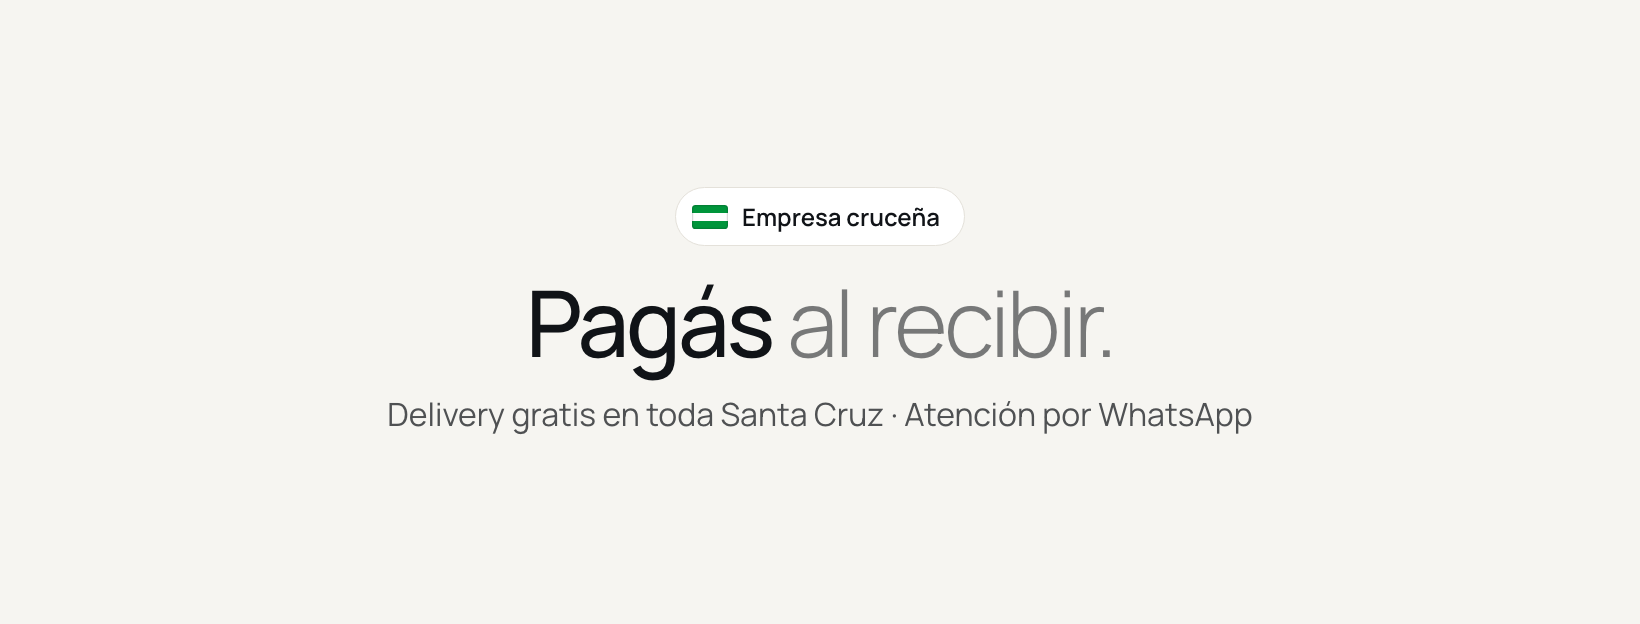
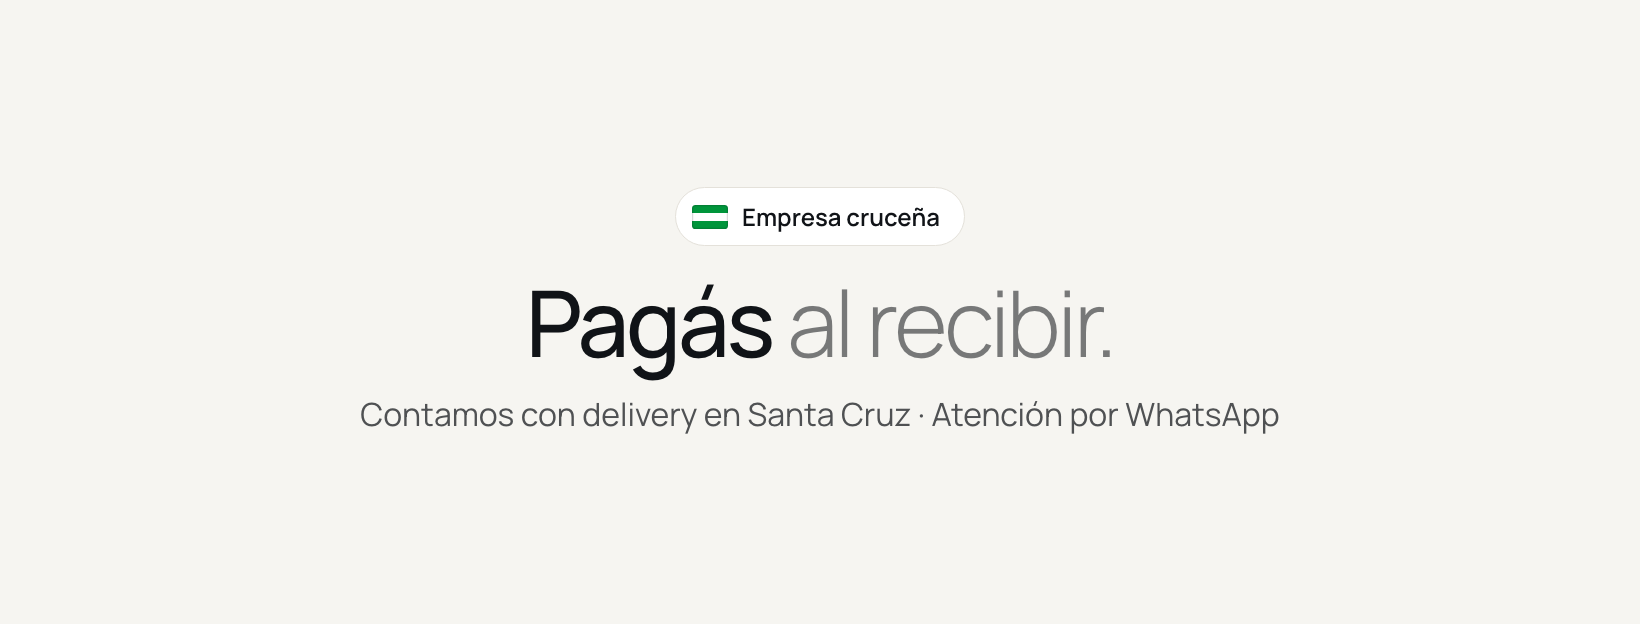
Reemplazar 'delivery gratis' por 'contamos con delivery'
En toda la web (portada, garantías, compra segura, preguntas, detalle,
pedido y mensaje de WhatsApp), la vista previa al compartir, los posts
del kit de lanzamiento, los textos de redes y las guías del agente de Meta.

Changed region(s): [[0.2177, 0.6394, 0.7774, 0.7003]]

diff --git a/index.html b/index.html
@@ -4,7 +4,7 @@
 <meta charset="utf-8">
 <meta name="viewport" content="width=device-width, initial-scale=1">
 <title>Nexora Labs — Péptidos de alta pureza</title>
-<meta name="description" content="Nexora Labs, Santa Cruz. Péptidos de alta pureza con delivery gratis en toda la ciudad. Pagás recién cuando recibís tu pedido.">
+<meta name="description" content="Nexora Labs, Santa Cruz. Péptidos de alta pureza. Contamos con delivery y pagás recién cuando recibís tu pedido.">
 <meta name="theme-color" content="#F6F5F1">
 <link rel="canonical" href="https://nexoratienda.netlify.app/">
 <!-- Vista previa al compartir (WhatsApp, Instagram, Facebook, X) -->
@@ -13,7 +13,7 @@
 <meta property="og:locale" content="es_BO">
 <meta property="og:url" content="https://nexoratienda.netlify.app/">
 <meta property="og:title" content="Nexora Labs — Péptidos de alta pureza">
-<meta property="og:description" content="Delivery gratis en Santa Cruz. Pagás al recibir: efectivo o QR. Pedí por WhatsApp.">
+<meta property="og:description" content="Contamos con delivery en Santa Cruz. Pagás al recibir: efectivo o QR. Pedí por WhatsApp.">
 <meta property="og:image" content="https://nexoratienda.netlify.app/og-image.jpg">
 <meta property="og:image:width" content="1200">
 <meta property="og:image:height" content="630">
@@ -68,7 +68,7 @@
       <ul class="assure" aria-label="Garantías de compra">
         <li><svg class="flag" viewBox="0 0 30 20" aria-hidden="true"><rect width="30" height="20" rx="3" fill="#fff"/><path d="M3 0h24a3 3 0 0 1 3 3v3.67H0V3a3 3 0 0 1 3-3Z" fill="#00953B"/><path d="M0 13.33h30V17a3 3 0 0 1-3 3H3a3 3 0 0 1-3-3Z" fill="#00953B"/><rect x=".5" y=".5" width="29" height="19" rx="2.5" fill="none" stroke="rgba(16,19,23,.14)"/></svg>Somos de Santa Cruz</li>
         <li><svg viewBox="0 0 24 24" fill="none" stroke="currentColor" stroke-width="1.6" stroke-linecap="round" stroke-linejoin="round"><rect x="3" y="7" width="18" height="12" rx="2"/><path d="M3 11h18M7 15h3"/></svg>Pagás al recibir</li>
-        <li><svg viewBox="0 0 24 24" fill="none" stroke="currentColor" stroke-width="1.6" stroke-linecap="round" stroke-linejoin="round"><path d="M3 6h11v10H3zM14 10h4l3 3v3h-7"/><circle cx="7" cy="17.5" r="1.8"/><circle cx="17" cy="17.5" r="1.8"/></svg>Delivery gratis en Santa Cruz</li>
+        <li><svg viewBox="0 0 24 24" fill="none" stroke="currentColor" stroke-width="1.6" stroke-linecap="round" stroke-linejoin="round"><path d="M3 6h11v10H3zM14 10h4l3 3v3h-7"/><circle cx="7" cy="17.5" r="1.8"/><circle cx="17" cy="17.5" r="1.8"/></svg>Contamos con delivery</li>
         <li><svg viewBox="0 0 24 24" fill="none" stroke="currentColor" stroke-width="1.6" stroke-linecap="round" stroke-linejoin="round"><path d="M21 12a8 8 0 0 1-11.6 7.1L4 20l1-4.6A8 8 0 1 1 21 12Z"/></svg>Atención directa por WhatsApp</li>
       </ul>
     </div>
@@ -78,8 +78,8 @@
   <div class="trust">
     <div class="wrap">
       <div><b>Pagás al recibir</b><span>Efectivo o QR, sin adelantos</span></div>
-      <div><b>Delivery gratis</b><span>En toda Santa Cruz</span></div>
-      <div><b>Precio final</b><span>Sin costos ocultos</span></div>
+      <div><b>Contamos con delivery</b><span>En Santa Cruz</span></div>
+      <div><b>Total claro</b><span>Confirmado antes de entregar</span></div>
       <div><b>99% pureza</b><span>Calidad premium</span></div>
     </div>
   </div>
@@ -103,9 +103,9 @@
       </div>
       <div class="secure-grid">
         <div class="sc rv"><svg viewBox="0 0 24 24" fill="none" stroke="currentColor" stroke-width="1.6" stroke-linecap="round" stroke-linejoin="round"><rect x="3" y="7" width="18" height="12" rx="2"/><path d="M3 11h18M7 15h3"/></svg><h3>Pagás al recibir</h3><p>Pagás en efectivo o con QR en el momento de la entrega. No necesitás pagar nada por adelantado.</p></div>
-        <div class="sc rv"><svg viewBox="0 0 24 24" fill="none" stroke="currentColor" stroke-width="1.6" stroke-linecap="round" stroke-linejoin="round"><path d="M3 6h11v10H3zM14 10h4l3 3v3h-7"/><circle cx="7" cy="17.5" r="1.8"/><circle cx="17" cy="17.5" r="1.8"/></svg><h3>Delivery gratis</h3><p>Te lo llevamos sin costo a cualquier zona de Santa Cruz. Coordinamos día y horario por WhatsApp.</p></div>
+        <div class="sc rv"><svg viewBox="0 0 24 24" fill="none" stroke="currentColor" stroke-width="1.6" stroke-linecap="round" stroke-linejoin="round"><path d="M3 6h11v10H3zM14 10h4l3 3v3h-7"/><circle cx="7" cy="17.5" r="1.8"/><circle cx="17" cy="17.5" r="1.8"/></svg><h3>Contamos con delivery</h3><p>Te lo llevamos a tu zona en Santa Cruz. Coordinamos día y horario por WhatsApp.</p></div>
         <div class="sc rv"><svg viewBox="0 0 24 24" fill="none" stroke="currentColor" stroke-width="1.6" stroke-linecap="round" stroke-linejoin="round"><path d="M2 12s3.5-7 10-7 10 7 10 7-3.5 7-10 7S2 12 2 12Z"/><circle cx="12" cy="12" r="3"/></svg><h3>Revisás antes de pagar</h3><p>Recibís tu pedido, lo revisás con tranquilidad y recién después pagás.</p></div>
-        <div class="sc rv"><svg viewBox="0 0 24 24" fill="none" stroke="currentColor" stroke-width="1.6" stroke-linecap="round" stroke-linejoin="round"><path d="M20 12 12 20l-9-9V4h7Z"/><circle cx="7.5" cy="7.5" r="1.3"/></svg><h3>Precio final, sin sorpresas</h3><p>El precio que ves es el que pagás. El delivery no tiene costo y no hay cargos extra.</p></div>
+        <div class="sc rv"><svg viewBox="0 0 24 24" fill="none" stroke="currentColor" stroke-width="1.6" stroke-linecap="round" stroke-linejoin="round"><path d="M20 12 12 20l-9-9V4h7Z"/><circle cx="7.5" cy="7.5" r="1.3"/></svg><h3>Total claro, sin sorpresas</h3><p>Antes de la entrega te confirmamos por WhatsApp el total de tu pedido.</p></div>
         <div class="sc rv"><svg viewBox="0 0 24 24" fill="none" stroke="currentColor" stroke-width="1.6" stroke-linecap="round" stroke-linejoin="round"><path d="M12 21s7-6.2 7-12a7 7 0 0 0-14 0c0 5.8 7 12 7 12Z"/><circle cx="12" cy="9" r="2.5"/></svg><h3>Retiro en persona</h3><p>Si preferís, coordinamos un punto de retiro y pagás ahí en efectivo o QR.</p></div>
         <div class="sc rv"><svg viewBox="0 0 24 24" fill="none" stroke="currentColor" stroke-width="1.6" stroke-linecap="round" stroke-linejoin="round"><path d="M21 12a8 8 0 0 1-11.6 7.1L4 20l1-4.6A8 8 0 1 1 21 12Z"/></svg><h3>Atención directa</h3><p>Todas tus consultas se responden por WhatsApp, antes y después de tu compra.</p></div>
       </div>
@@ -146,7 +146,7 @@
       <div class="steps">
         <div class="step rv"><div class="n">01</div><h3>Armá tu pedido</h3><p>Sumá uno o varios productos con el botón +.</p></div>
         <div class="step rv"><div class="n">02</div><h3>Envialo por WhatsApp</h3><p>Tu pedido llega armado. Te confirmamos stock y coordinamos día y horario de entrega.</p></div>
-        <div class="step rv"><div class="n">03</div><h3>Recibí y pagá</h3><p>Te lo llevamos gratis en Santa Cruz. Revisás tu pedido y pagás ahí: efectivo o QR.</p></div>
+        <div class="step rv"><div class="n">03</div><h3>Recibí y pagá</h3><p>Te lo llevamos con nuestro delivery. Revisás tu pedido y pagás ahí: efectivo o QR.</p></div>
       </div>
     </div>
   </section>
@@ -156,12 +156,12 @@
       <div class="rv">
         <div class="eyebrow">Atención por WhatsApp</div>
         <h2>Preguntas frecuentes</h2>
-        <p class="lead">Delivery gratis en Santa Cruz y pago al recibir. Toda la atención es por WhatsApp.</p>
+        <p class="lead">Contamos con delivery y pagás al recibir. Toda la atención es por WhatsApp.</p>
         <a class="btn btn-dark wa" href="#" target="_blank" rel="noopener" data-msg="Hola Nexora, tengo una consulta.">Escribinos</a>
       </div>
       <div class="faq rv">
         <details><summary>¿Tengo que pagar por adelantado?</summary><p><b>No.</b> Pagás cuando recibís tu pedido, en efectivo o con QR. Primero lo revisás y después pagás.</p></details>
-        <details><summary>¿Cuánto cuesta el delivery?</summary><p>Nada. El delivery es <b>gratis en toda Santa Cruz</b>. Si preferís, también podés retirar en persona en un punto que coordinamos.</p></details>
+        <details><summary>¿Hacen delivery?</summary><p>Sí, <b>contamos con delivery</b> en Santa Cruz. Coordinamos día y horario por WhatsApp. Si preferís, también podés retirar en persona en un punto que coordinamos.</p></details>
         <details><summary>¿Cómo hago un pedido?</summary><p>Agregá los productos con el botón <b>+</b>, tocá <b>Ver pedido</b>, elegí entrega y forma de pago, y envialo por WhatsApp. Te confirmamos stock y coordinamos día y horario.</p></details>
         <details><summary>¿Cómo sé que es seguro comprarles?</summary><p>Porque no arriesgás tu dinero: no pedimos adelantos. Recibís el producto, lo revisás y recién ahí pagás. Además, podés escribirnos antes para resolver cualquier duda.</p></details>
         <details><summary>¿Cómo se conservan los productos?</summary><p>Son péptidos liofilizados. Con tu pedido te pasamos las indicaciones de conservación; en general se guardan refrigerados (2–8 °C), sin congelar y protegidos de la luz.</p></details>
@@ -176,7 +176,7 @@
         <div>
           <div class="eyebrow">Tu mejor versión es ahora</div>
           <h2>Disciplina hoy. Un mejor mañana.</h2>
-          <p>Escribinos y te asesoramos. Delivery gratis en Santa Cruz y pagás recién al recibir.</p>
+          <p>Escribinos y te asesoramos. Contamos con delivery y pagás recién al recibir.</p>
           <a class="btn wa" href="#" target="_blank" rel="noopener" data-msg="Hola Nexora, quiero asesoramiento para elegir un producto.">
             <svg viewBox="0 0 24 24" fill="currentColor"><path d="M12 2a10 10 0 0 0-8.6 15.1L2 22l5-1.3A10 10 0 1 0 12 2Zm5.3 14.1c-.2.6-1.3 1.2-1.8 1.2-.5.1-1 .2-3.3-.7-2.8-1.1-4.6-4-4.7-4.2-.1-.2-1.1-1.5-1.1-2.9s.7-2 1-2.3c.2-.3.5-.3.7-.3h.5c.2 0 .4 0 .6.5l.8 2c.1.2.1.4 0 .5l-.4.6-.4.4c-.1.2-.3.3-.1.6.2.3.8 1.3 1.7 2.1 1.2 1 2.1 1.3 2.4 1.5.3.1.5.1.6-.1l.9-1c.2-.3.4-.2.6-.1l1.9.9c.3.1.5.2.5.3.1.2.1.8-.2 1.4Z"/></svg>
             Hablar por WhatsApp</a>
@@ -196,7 +196,7 @@
     <div class="top">
       <div>
         <div class="brand"><svg class="mark" viewBox="0 0 64 64" aria-hidden="true"><path d="M32 2 58 17v30L32 62 6 47V17Z"/><g class="n"><rect x="20" y="20" width="5" height="24"/><rect x="39" y="20" width="5" height="24"/><path d="M25 20h5.2l8.8 17.5V44h-.2L25 26.5Z"/></g></svg>NEXORA LABS</div>
-        <p style="margin-top:14px;max-width:36ch">Péptidos de alta pureza en Santa Cruz de la Sierra, Bolivia. Delivery gratis y pago al recibir.</p>
+        <p style="margin-top:14px;max-width:36ch">Péptidos de alta pureza en Santa Cruz de la Sierra, Bolivia. Contamos con delivery y pago al recibir.</p>
       </div>
       <nav aria-label="Pie"><a href="#productos">Productos</a><a href="#compra-segura">Compra segura</a><a href="#precios">Precios</a><a href="#" class="wa" target="_blank" rel="noopener" data-msg="Hola Nexora, quiero hacer una consulta.">WhatsApp</a></nav>
     </div>
@@ -219,7 +219,7 @@
       <p class="tagline" id="mTag"></p>
       <ul id="mList"></ul>
       <div class="m-foot">
-        <div><div class="eyebrow" style="font-size:11px">Precio final</div><div class="price" id="mPrice"></div><div class="m-assure">Delivery gratis · Pagás al recibir</div></div>
+        <div><div class="eyebrow" style="font-size:11px">Precio final</div><div class="price" id="mPrice"></div><div class="m-assure">Contamos con delivery · Pagás al recibir</div></div>
         <div class="acts">
           <div class="add big" id="mAdd"></div>
           <a class="alt" id="mAsk" target="_blank" rel="noopener">o consultar solo este producto</a>

diff --git a/js/productos.js b/js/productos.js
@@ -18,11 +18,11 @@
 const WHATSAPP = "59157022195";
 
 // Datos del negocio: se usan en el pedido y el mensaje de WhatsApp.
-// Si cambia algo (por ejemplo, dejás de hacer delivery gratis), cambialo acá
+// Si cambia algo (por ejemplo, las formas de pago), cambialo acá
 // y revisá también los textos de index.html (secciones "confianza" y "ayuda").
 const NEGOCIO = {
   ciudad: "Santa Cruz",
-  entrega: ["Delivery gratis", "Retiro en persona"],
+  entrega: ["Delivery", "Retiro en persona"],
   pago: ["Efectivo al recibir", "QR al recibir"],
 };
 

diff --git a/marketing/creativos/2026-09-28_lanzamiento/generar.py b/marketing/creativos/2026-09-28_lanzamiento/generar.py
@@ -95,8 +95,8 @@ POSTS = {
     '<div class="eyebrow" style="margin-top:50px">Paso 1</div><h1 style="font-size:104px;margin-top:22px">Escribinos por WhatsApp.</h1>'
     '<p class="s">O armá tu pedido en la web: el mensaje llega listo.</p></div>' + foot()),
  "post-02c_paso-2": ("light", brand() + '<div class="num">03 / 05</div><div class="body">' + ic("truck", 96, "#1F3A6E") +
-    '<div class="eyebrow" style="margin-top:50px">Paso 2</div><h1 style="font-size:104px;margin-top:22px">Te lo llevamos gratis.</h1>'
-    '<p class="s">A cualquier zona de Santa Cruz. Coordinamos día y horario.</p></div>' + foot()),
+    '<div class="eyebrow" style="margin-top:50px">Paso 2</div><h1 style="font-size:104px;margin-top:22px">Te lo llevamos.</h1>'
+    '<p class="s">Contamos con delivery en Santa Cruz. Coordinamos día y horario.</p></div>' + foot()),
  "post-02d_paso-3": ("light", brand() + '<div class="num">04 / 05</div><div class="body">' + ic("eye", 96, "#1F3A6E") +
     '<div class="eyebrow" style="margin-top:50px">Paso 3</div><h1 style="font-size:104px;margin-top:22px">Lo revisás.</h1>'
     '<p class="s">Con tranquilidad, en tus manos.</p></div>' + foot()),
@@ -106,10 +106,10 @@ POSTS = {
  # 03 — pago al recibir
  "post-03_pagas-al-recibir": ("dark", brand() + '<div class="body"><h1 style="font-size:150px">Pagás <em>al recibir.</em></h1>'
     '<p class="s">Efectivo o QR, en el momento de la entrega. No te pedimos adelantos.</p></div>' + foot("Nexora Labs", "Santa Cruz")),
- # 04 — delivery gratis
- "post-04_delivery-gratis": ("light", brand() +
+ # 04 — delivery
+ "post-04_delivery": ("light", brand() +
     '<div class="body">' + ic("truck", 110, "#1F3A6E") +
-    '<h1 style="font-size:128px;margin-top:46px">Delivery gratis <em>en toda Santa Cruz.</em></h1></div>' + foot("Sin costo", "Sin mínimo")),
+    '<h1 style="font-size:128px;margin-top:46px">Contamos <em>con delivery.</em></h1><p class="s">Te lo llevamos a tu zona en Santa Cruz.</p></div>' + foot()),
  # 05 — estilo de vida
  "post-05_disciplina": ("dark", brand() + '<div class="body"><h1 style="font-size:140px">Disciplina hoy.</h1>'
     '<h1 style="font-size:140px;margin-top:6px"><em>Un mejor mañana.</em></h1></div>' + foot("Nexora Labs", "Constancia")),
@@ -117,7 +117,7 @@ POSTS = {
  "post-06_revisas-antes": ("light", brand() + '<div class="body"><div class="eyebrow">Nuestro compromiso</div>'
     '<div class="list" style="margin-top:44px">'
     f'<div>{ic("hand",56,"#1F3A6E")}Pagás al recibir</div>'
-    f'<div>{ic("truck",56,"#1F3A6E")}Delivery gratis</div>'
+    f'<div>{ic("truck",56,"#1F3A6E")}Contamos con delivery</div>'
     f'<div>{ic("eye",56,"#1F3A6E")}Revisás antes de pagar</div>'
     f'<div>{ic("chat",56,"#1F3A6E")}Atención directa</div></div></div>' + foot()),
  # 07 — educativo: conservación (3 láminas)
@@ -157,5 +157,5 @@ if __name__ == "__main__":
            '<div style="position:absolute;inset:0;display:flex;flex-direction:column;align-items:center;justify-content:center;text-align:center">'
            f'<div style="display:inline-flex;align-items:center;gap:14px;padding:12px 24px 12px 16px;border:1px solid #E4E1DA;border-radius:999px;background:#fff;font-size:24px;font-weight:600;margin-bottom:30px">{flag(36)}Empresa cruceña</div>'
            '<h1 style="font-size:92px">Pagás <em>al recibir.</em></h1>'
-           '<p class="s" style="font-size:32px;margin-top:22px;max-width:none">Delivery gratis en toda Santa Cruz · Atención por WhatsApp</p></div>')
+           '<p class="s" style="font-size:32px;margin-top:22px;max-width:none">Contamos con delivery en Santa Cruz · Atención por WhatsApp</p></div>')
     print("listo")

diff --git a/marketing/creativos/2026-09-28_lanzamiento/textos.md b/marketing/creativos/2026-09-28_lanzamiento/textos.md
@@ -9,19 +9,19 @@ Todas las piezas son de marca, confianza y estilo de vida (🟢): no muestran fr
 ## Biografías
 **Instagram (≤150 caracteres)**
 ```
-Pagás al recibir · Delivery gratis en Santa Cruz 🇧🇴
+Pagás al recibir · Contamos con delivery 🇧🇴
 Atención directa por WhatsApp
 👇 Escribinos
 ```
 
 **Facebook, descripción de la página (≤255)**
 ```
-Nexora Labs · Santa Cruz de la Sierra. Pagás al recibir (efectivo o QR), delivery gratis en toda la ciudad y atención directa por WhatsApp.
+Nexora Labs · Santa Cruz de la Sierra. Pagás al recibir (efectivo o QR), contamos con delivery y atención directa por WhatsApp.
 ```
 
 **TikTok (≤80)**
 ```
-Pagás al recibir · Delivery gratis SCZ 🇧🇴 · Escribinos por WhatsApp
+Pagás al recibir · Delivery en SCZ 🇧🇴 · Escribinos por WhatsApp
 ```
 
 Enlace en la biografía: `https://nexoratienda.netlify.app/?utm_source=instagram` (en Facebook: `utm_source=facebook`; en TikTok: `utm_source=tiktok`).
@@ -35,11 +35,11 @@ Instagram muestra primero lo último que publicaste. Para que el perfil se lea b
 | 1° | `post-09_constancia` | Dormí bien. Tomá agua. Entrená. Repetí. Los resultados vienen de lo que hacés todos los días, no de un día perfecto. 💪 #Disciplina #SantaCruzBolivia |
 | 2° | `post-08_escribinos` | ¿Tenés dudas antes de pedir? Escribinos por WhatsApp y te respondemos personalmente. Sin compromiso. 📲 Link en la bio. |
 | 3° | `post-07a`, `07b`, `07c` (carrusel) | Cómo se conserva un liofilizado: refrigerado entre 2 y 8 °C, sin congelar y protegido de la luz. Seguí siempre las indicaciones del envase y, ante cualquier duda, consultá a un profesional de la salud. |
-| 4° | `post-06_revisas-antes` | Nuestro compromiso con vos: pagás al recibir, delivery gratis, revisás antes de pagar y atención directa. Así de simple. |
+| 4° | `post-06_revisas-antes` | Nuestro compromiso con vos: pagás al recibir, contamos con delivery, revisás antes de pagar y atención directa. Así de simple. |
 | 5° | `post-05_disciplina` | Disciplina hoy. Un mejor mañana. 🖤 |
-| 6° | `post-04_delivery-gratis` | Delivery gratis a cualquier zona de Santa Cruz. Sin costo y sin monto mínimo. Coordinamos día y horario por WhatsApp. 🛵 |
+| 6° | `post-04_delivery` | Contamos con delivery en Santa Cruz: te lo llevamos a tu zona. Coordinamos día y horario por WhatsApp. 🛵 |
 | 7° | `post-03_pagas-al-recibir` | En Nexora no te pedimos adelantos. Pagás cuando tenés tu pedido en la mano, en efectivo o con QR. La confianza se gana entrega por entrega. 🤝 |
-| 8° | `post-02a` → `02e` (carrusel) | Cómo comprar sin riesgo, en 4 pasos: 1) Escribinos por WhatsApp. 2) Te lo llevamos gratis. 3) Lo revisás. 4) Y recién ahí pagás. Guardá este post para tenerlo a mano. 📌 |
+| 8° | `post-02a` → `02e` (carrusel) | Cómo comprar sin riesgo, en 4 pasos: 1) Escribinos por WhatsApp. 2) Te lo llevamos. 3) Lo revisás. 4) Y recién ahí pagás. Guardá este post para tenerlo a mano. 📌 |
 | 9° | `post-01_comprar-sin-miedo` | Comprar online no debería darte miedo. Por eso trabajamos distinto: recibís, revisás y recién ahí pagás. Bienvenidos a Nexora Labs. 🇧🇴 |
 
 Hashtags opcionales (máximo 3–5 por post, al final): `#SantaCruzDeLaSierra #SantaCruzBolivia #Bienestar #Disciplina #EstiloDeVida`.

diff --git a/CLAUDE.md b/CLAUDE.md
@@ -9,7 +9,7 @@ Sitio estático de una página (sin build, sin dependencias). El usuario habla e
 - `css/styles.css`: tokens en `:root`; estética blanca cálida minimalista (bg `#F6F5F1`, tinta `#101317`, acento `#1F3A6E`, fuente Manrope).
 - `assets/productos/*.webp`: frascos recortados con fondo transparente, ~900px de alto.
 - Logo: hexágono sólido con N en negativo (SVG inline `.mark` en header/footer; archivos en `assets/logo/`, `favicon.svg`, `apple-touch-icon.png`).
-- Negocio (confirmado por el usuario): Santa Cruz de la Sierra, Bolivia. Pagos: efectivo al recibir, QR al recibir, efectivo al retirar (contra entrega, sin adelantos). Entrega: delivery gratis en toda la ciudad o retiro en persona. Sin envíos a otras ciudades. Marca sin cara visible (no mostrar datos personales).
+- Negocio (confirmado por el usuario): Santa Cruz de la Sierra, Bolivia. Pagos: efectivo al recibir, QR al recibir, efectivo al retirar (contra entrega, sin adelantos). Entrega: "Contamos con delivery" (el usuario pidió NO decir que es gratis ni mencionar costos) o retiro en persona. Sin envíos a otras ciudades. Marca sin cara visible (no mostrar datos personales).
 - Confianza: sección `#compra-segura` (fondo oscuro), garantías en hero (`.assure`, la primera es "Somos de Santa Cruz" con bandera cruceña SVG; el usuario NO quiere bandera en el pie de página), franja `.trust`, preguntas en `#ayuda`, opciones Entrega/Pago en el pedido (`NEGOCIO` en `productos.js`). Si cambian las condiciones, actualizar todos esos textos + og:description + og-image.jpg.
 - No inventar testimonios, cantidades de clientes ni garantías que el usuario no confirmó.
 

diff --git a/.claude/skills/meta/SKILL.md b/.claude/skills/meta/SKILL.md
@@ -9,7 +9,7 @@ Sos el especialista en Meta de Nexora Labs: estratega, creativo y encargado de l
 
 ## Contexto del negocio (fuente: CLAUDE.md del proyecto y js/productos.js)
 - Marca: Nexora Labs. Venta de péptidos en **Santa Cruz de la Sierra, Bolivia**.
-- Diferencial de confianza: **pago al recibir** (efectivo o QR), **delivery gratis en toda la ciudad**, retiro en persona, atención por WhatsApp (+591 57022195). Sin adelantos.
+- Diferencial de confianza: **pago al recibir** (efectivo o QR), **contamos con delivery** (no decir "gratis" ni hablar de costos), retiro en persona, atención por WhatsApp (+591 57022195). Sin adelantos.
 - Miedo principal del público: ser estafado al comprar online. Todo el contenido debe reforzar honestidad, transparencia y cumplimiento.
 - Marca sin cara visible: no mostrar datos personales del dueño.
 - Web: https://nexoratienda.netlify.app — pedido armado por WhatsApp.
@@ -43,5 +43,5 @@ Flujo general para cualquier pieza:
 
 ## Tono de marca
 - Cercano, seguro y honesto. Frases cortas. Tuteo con voseo ("pedí", "escribinos").
-- Palabras que sí: confianza, pago al recibir, delivery gratis, atención directa, calidad, transparencia.
+- Palabras que sí: confianza, pago al recibir, contamos con delivery, atención directa, calidad, transparencia.
 - Palabras que no: milagro, garantizado, bajá X kilos, cura, sin efectos, "100% seguro".

diff --git a/.claude/skills/meta/contenido.md b/.claude/skills/meta/contenido.md
@@ -1,7 +1,7 @@
 # Contenido y creatividades
 
 ## Pilares (rotar en el calendario)
-1. **Confianza (40%)** — cómo trabajamos: pago al recibir, delivery gratis, revisás antes de pagar, puntualidad, empaque, atención. Es el pilar que vende en Santa Cruz.
+1. **Confianza (40%)** — cómo trabajamos: pago al recibir, delivery, revisás antes de pagar, puntualidad, empaque, atención. Es el pilar que vende en Santa Cruz.
 2. **Estilo de vida (30%)** — disciplina, entrenamiento, descanso, alimentación, constancia. Sin productos ni promesas.
 3. **Educación responsable (20%)** — conservación y cuidado, qué es un liofilizado, por qué consultar a un profesional. Sin dosis ni resultados.
 4. **Comunidad (10%)** — preguntas frecuentes respondidas, encuestas en historias, agradecimientos (sin datos de clientes sin permiso).
@@ -28,7 +28,7 @@ Antes de cada pieza, pasar el checklist de `politicas.md`.
 **Confianza — carrusel "Cómo comprar sin riesgo"**
 1. "Comprar online no debería darte miedo."
 2. "Escribinos por WhatsApp."
-3. "Te lo llevamos gratis en Santa Cruz."
+3. "Te lo llevamos a tu zona en Santa Cruz."
 4. "Lo revisás."
 5. "Y recién ahí pagás. Efectivo o QR."
 Texto: "Así de simple. Sin adelantos, sin vueltas. Escribinos 👇 (link en la bio)"

diff --git a/.claude/skills/meta/setup.md b/.claude/skills/meta/setup.md
@@ -10,7 +10,7 @@ Guiá al usuario en este orden. En cada paso: qué tocar, qué escribir y cómo 
 ## 1. Página de Facebook
 1. facebook.com/pages/create → Nombre: **Nexora Labs**. Categoría: elegir la más fiel a la actividad real.
 2. Foto de perfil: `nexora-perfil-1080.png`. Portada: generar una de 1640×624 con la estética de la web (pedírsela al agente).
-3. Descripción (≤255 caracteres), por ejemplo: "Nexora Labs · Santa Cruz. Pagás al recibir, delivery gratis y atención directa por WhatsApp."
+3. Descripción (≤255 caracteres), por ejemplo: "Nexora Labs · Santa Cruz. Pagás al recibir, contamos con delivery y atención directa por WhatsApp."
 4. Datos: web, WhatsApp, ciudad (Santa Cruz de la Sierra), horario (preguntar al usuario).
 5. Botón de acción: **Enviar mensaje de WhatsApp**.
 
@@ -20,7 +20,7 @@ Guiá al usuario en este orden. En cada paso: qué tocar, qué escribir y cómo 
 3. Foto: el mismo logo. Nombre: "Nexora Labs · Santa Cruz".
 4. Biografía (≤150 caracteres), por ejemplo:
    ```
-   Pagás al recibir · Delivery gratis en Santa Cruz 🇧🇴
+   Pagás al recibir · Contamos con delivery en Santa Cruz 🇧🇴
    Atención directa por WhatsApp
    👇 Catálogo y pedidos
    ```

diff --git a/marketing/calendario/2026-10.md b/marketing/calendario/2026-10.md
@@ -12,7 +12,7 @@ Objetivo del mes: **perfiles creados y activos + más conversaciones de WhatsApp
 ## Estado de las piezas
 | Pieza | Estado |
 |---|---|
-| Kit de lanzamiento (9 posts, 5 destacadas, portada FB) | Diseñado — falta publicar |
+| Kit de lanzamiento (9 posts, 5 destacadas, portada FB) | Diseñado — falta publicar (actualizado: "Contamos con delivery") |
 | Videos TikTok | Pendiente (después de crear la cuenta) |
 | Presentación para profesionales | Pendiente |
 | Tarjeta para cada entrega | Pendiente (definir beneficio por recomendación) |

diff --git a/marketing/bitacora.md b/marketing/bitacora.md
@@ -4,3 +4,4 @@
 |---|---|---|---|
 | 2026-09-28 | IG/FB/TikTok | Kit de lanzamiento diseñado (9 posts, 5 destacadas, portada FB) y plan de octubre | Pendiente de publicar |
 | 2026-09-28 | Web + redes | Bandera cruceña en la web (primera garantía), en el pie de los posts y en la portada de Facebook; foto de KLOW80 recortada de nuevo | — |
+| 2026-09-28 | Web + redes | "Delivery gratis" reemplazado por "Contamos con delivery" en web, pedido, posts, textos y vista previa | — |
